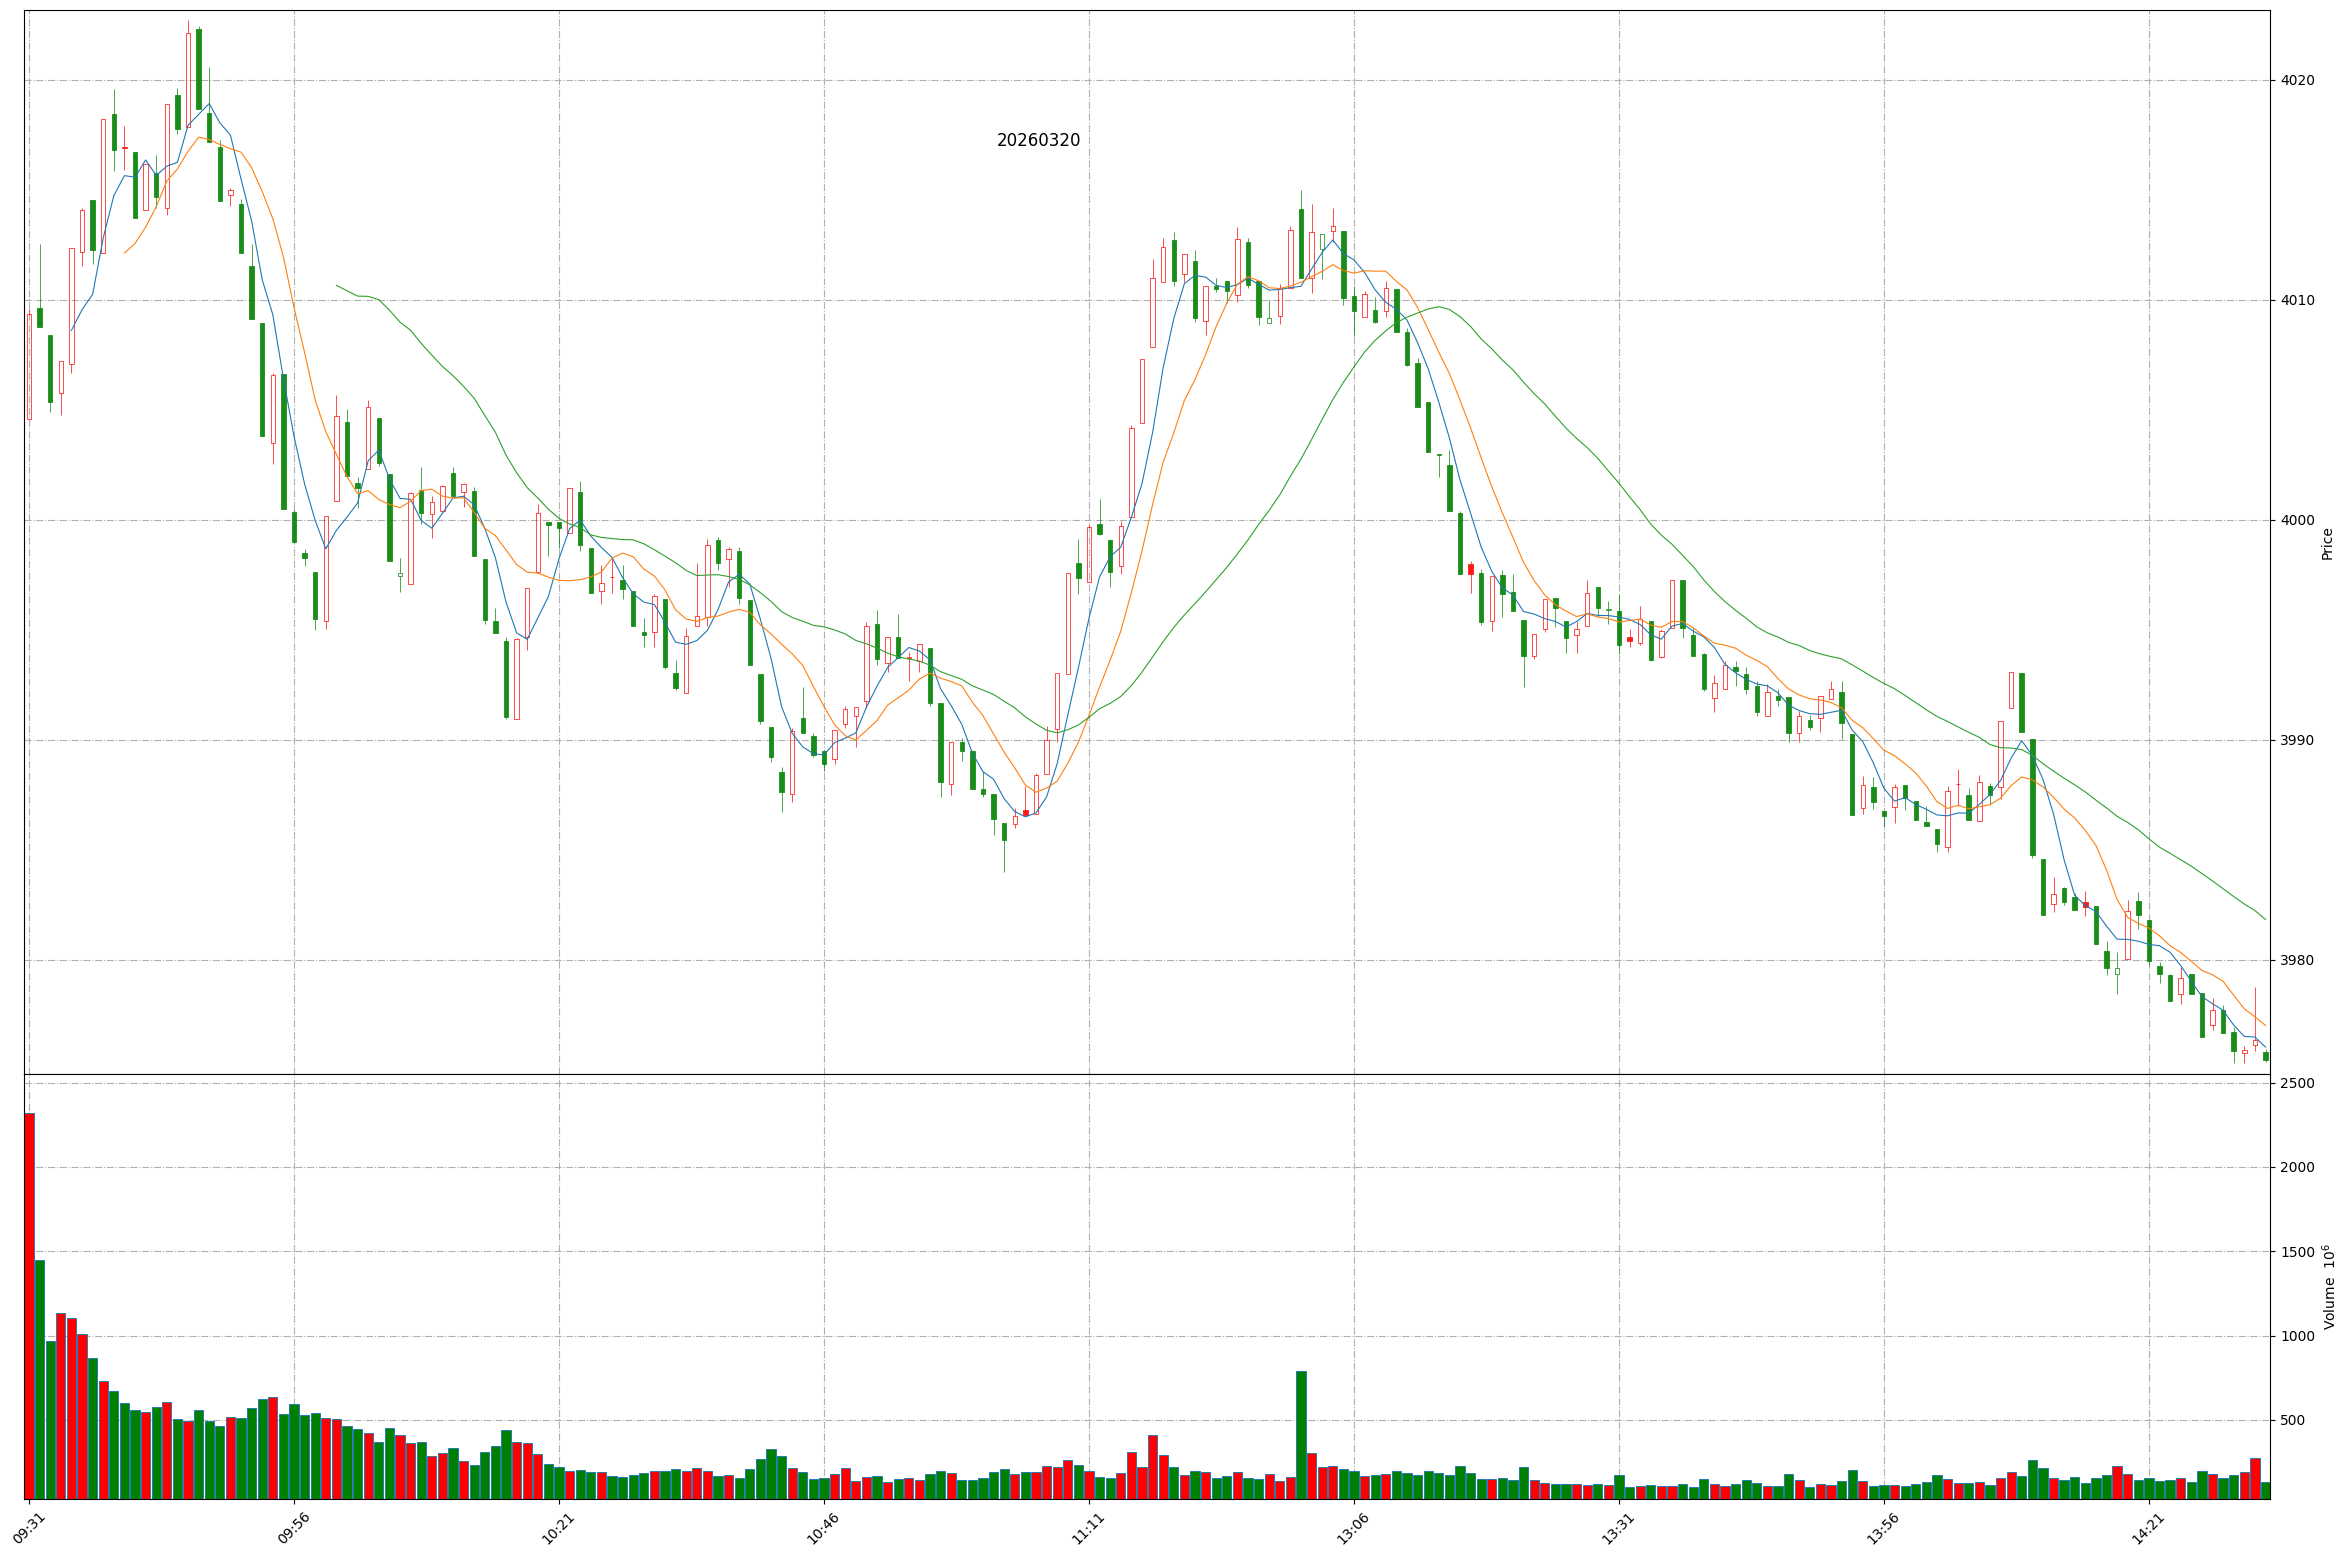
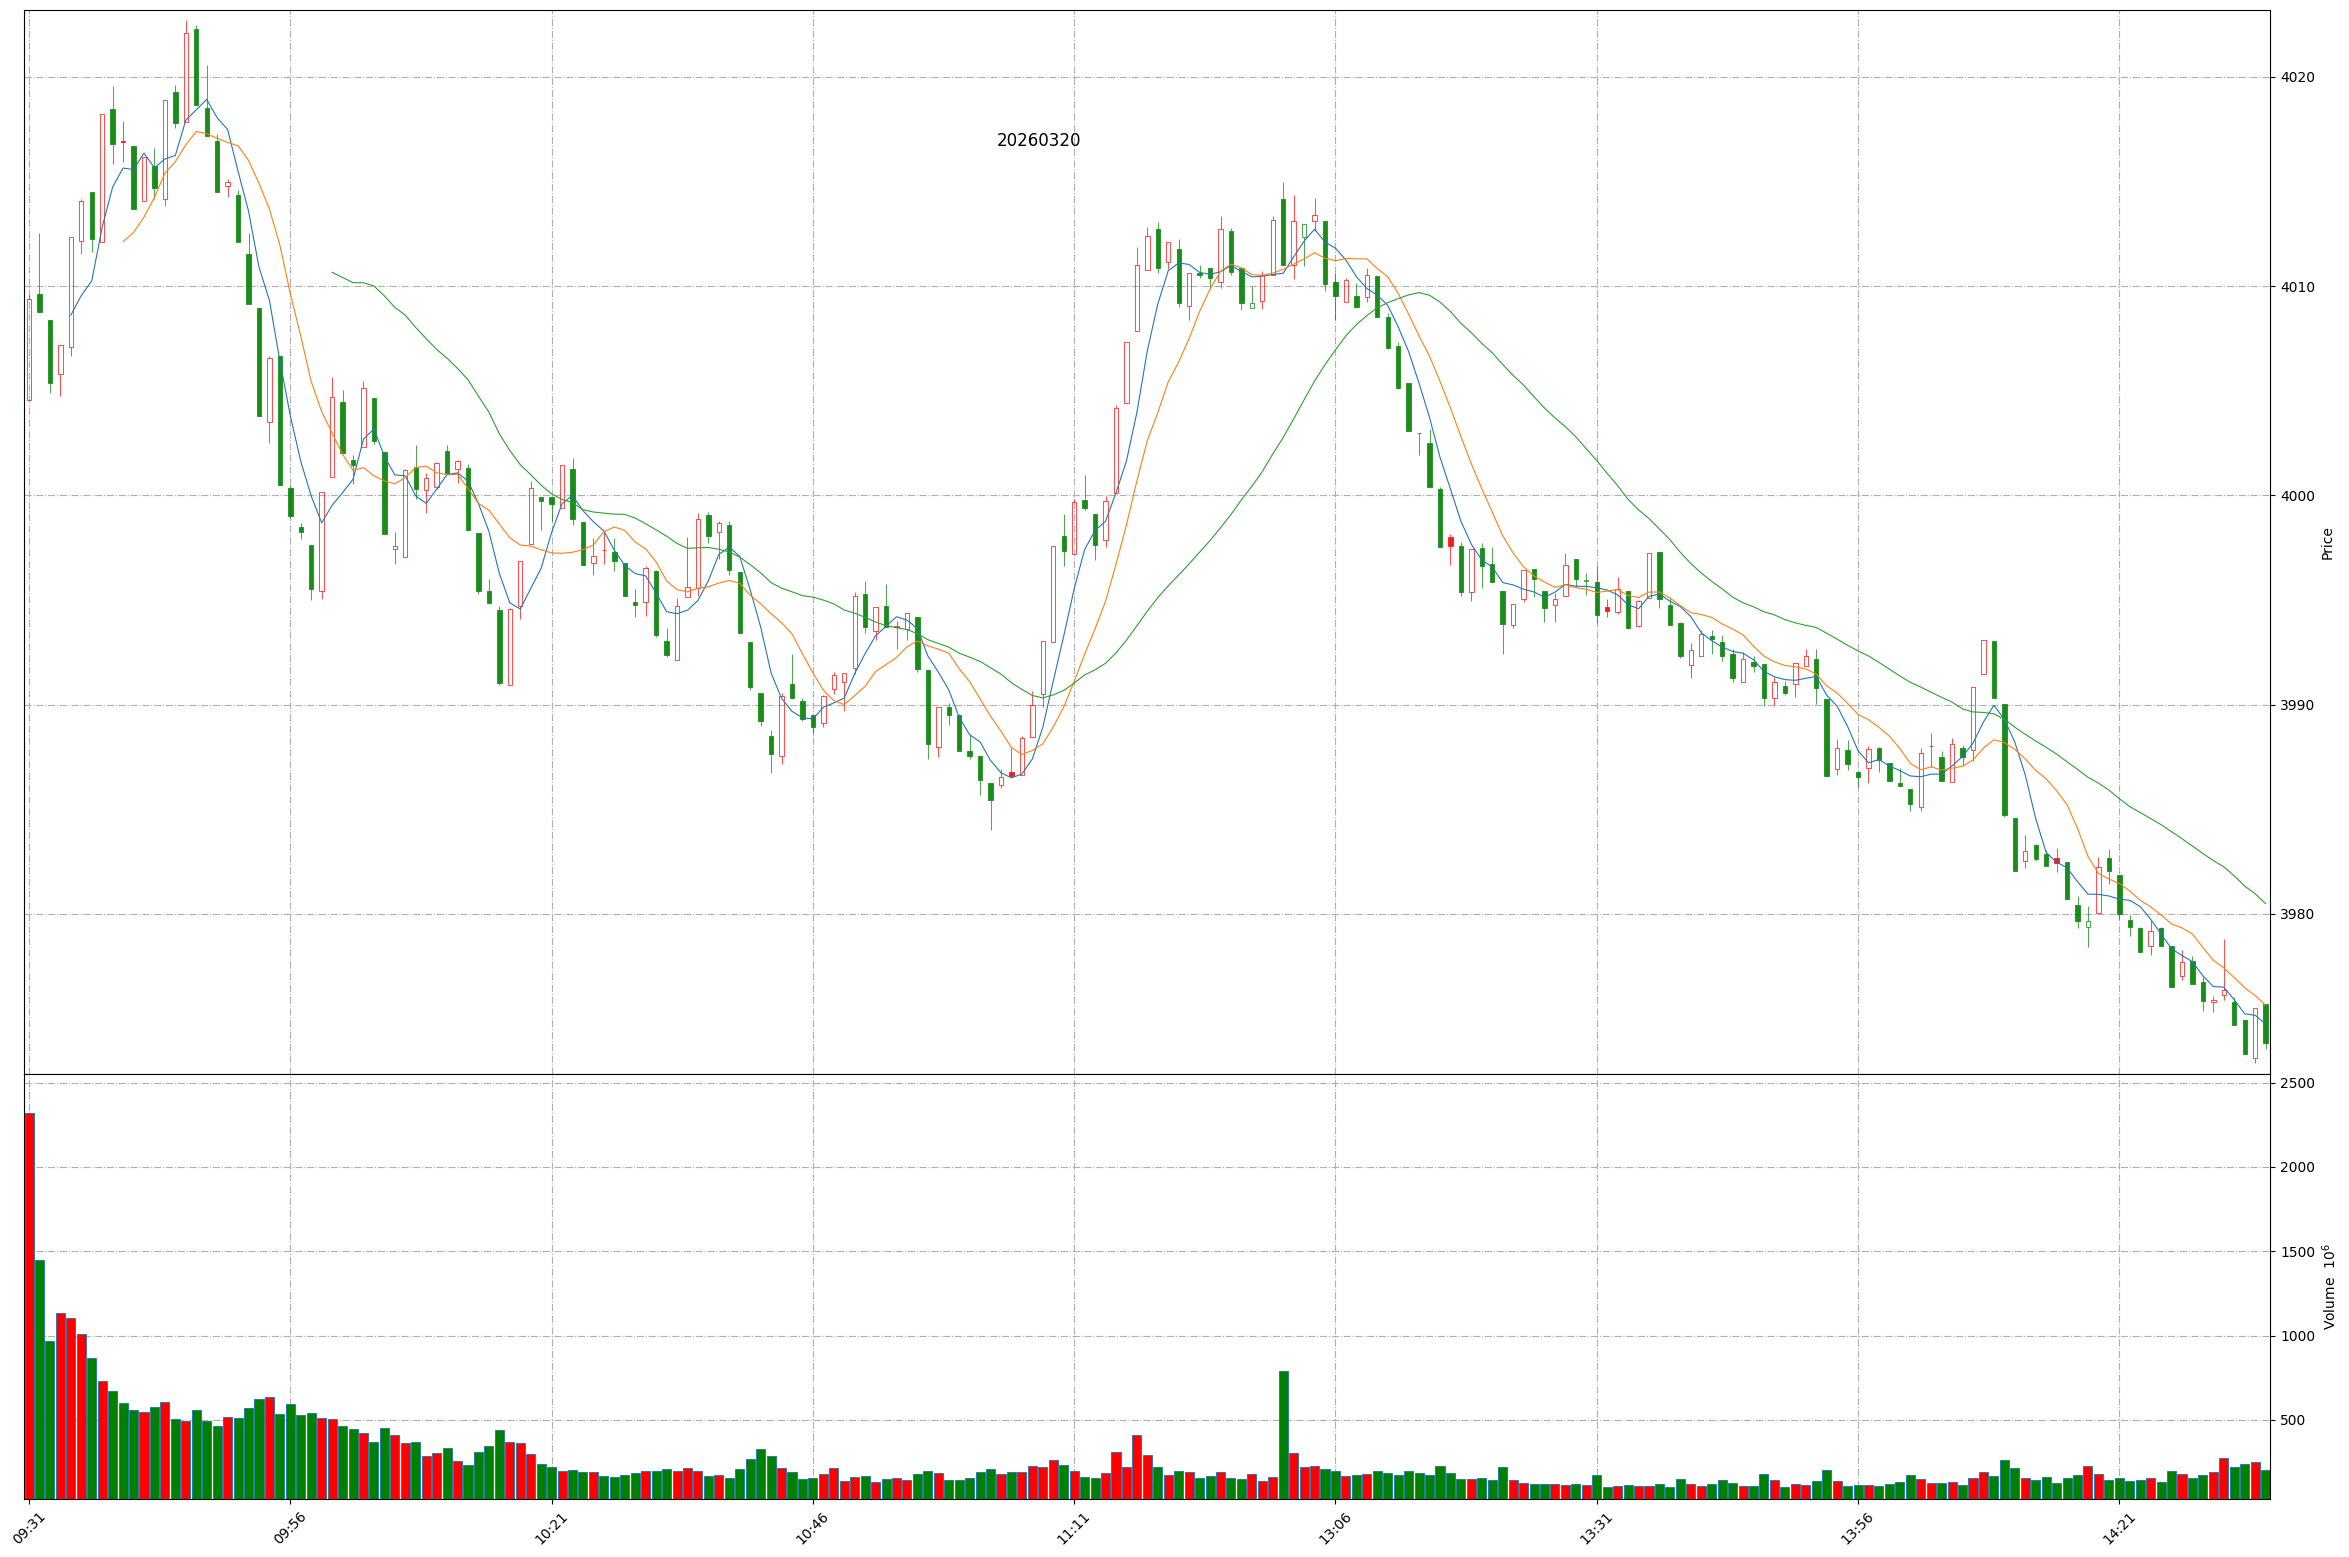
Github action update at 2026-03-20 14:35:15.

diff --git a/README.md b/README.md
@@ -1,11 +1,11 @@
 
 # Daily-A-share-market-quotes 每日 A 股指数（5min 更新）- 20260320
 
-### 上证指数 20260320 14:32
+### 上证指数 20260320 14:35
 ![](./fig/2026/3/20260320-sh000001.png)
 
-### 深证成指 20260320 14:32
+### 深证成指 20260320 14:35
 ![](./fig/2026/3/20260320-sz399001.png)
 
-### 北证50 20260320 14:32
+### 北证50 20260320 14:35
 ![](./fig/2026/3/20260320-bj899050.png)
